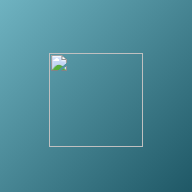
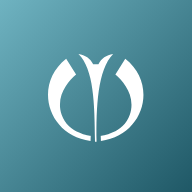
Инструкция «Установить как приложение» (#/install), исправлены значки PWA

Changed region(s): [[0.25, 0.25, 0.75, 0.7812]]

diff --git a/app.js b/app.js
@@ -92,6 +92,7 @@ function viewHome() {
   } else {
     slides.push({ tag: 'МОЙ ПУТЬ', title: 'План восстановления по дням', sub: 'Укажите операцию и дату — подскажу, что делать каждый день', facts: ['Чек-лист на каждый день', 'Самопроверка симптомов'], cta: 'Начать', g: 'teal', art: 'Calendar', href: '#/tracker' });
   }
+  if (!isStandalone()) slides.push({ tag: 'ПРИЛОЖЕНИЕ', title: 'Установите «Авалон» на телефон', sub: 'Значок на экране, открывается как приложение, работает без интернета', facts: ['iPhone и Android', 'Windows и Mac', 'Бесплатно, без магазина'], cta: 'Как установить', g: 'teal', art: 'Phone', href: '#/install' });
   slides.push({ tag: 'ОТЗЫВ', title: 'Оцените клинику «Авалон»', sub: 'Отзыв на Яндексе, 2ГИС или ПроДокторов — за 1 минуту', facts: D.reviews.map(r => `${r.name} ★ ${r.rating}`), cta: 'Оставить отзыв', g: 'sun', art: 'Heart', href: '#/reviews' });
   slides.push({ tag: 'ПАМЯТКА', title: 'После удаления зуба', sub: 'Что можно и нельзя — по дням, с картинками', facts: ['Тампон 20–30 минут', 'Холод — первые сутки', 'Не полоскать в 1-й день'], cta: 'Открыть', g: 'lilac', art: 'Tooth', href: '#/guide/extraction' });
   slides.push({ tag: 'ПАМЯТКА', title: 'После имплантации', sub: 'Как помочь имплантату прижиться', facts: ['Не курить', 'Мягкая пища на другой стороне', 'Антибиотики — по схеме'], cta: 'Открыть', g: 'mint', art: 'Implant', href: '#/guide/implant' });
@@ -457,7 +458,8 @@ function viewSettings() {
         <div style="display:flex;align-items:center;gap:8px;margin:6px 0"><div style="flex:1"><b>Сбросить «Мой путь»</b><div class="small muted">${S.track ? 'Операция: ' + esc(byId(D.operations, S.track.op)?.title) : 'Восстановление не отслеживается'}</div></div><button class="pill ${S.track ? 'coral' : ''}" data-reset>Сбросить</button></div>
         <div style="display:flex;align-items:center;gap:8px;margin:6px 0"><div style="flex:1"><b>Сбросить рекорд викторины</b><div class="small muted">${S.quizBest ? `Сейчас: ${S.quizBest}/10` : 'Рекорда пока нет'}</div></div><button class="pill ${S.quizBest ? 'coral' : ''}" data-resetquiz>Сбросить</button></div></div>
       <div class="group"><h3>📲 Приложение</h3>
-        <p class="small muted">Добавьте сайт на главный экран: в Safari — «Поделиться» → «На экран „Домой“», в Chrome — меню ⋮ → «Добавить на главный экран».</p>
+        <p class="small muted">${isStandalone() ? '✓ «Авалон» установлен как приложение.' : 'Установите сайт как приложение: значок на экране, работа без интернета.'}</p>
+        ${isStandalone() ? '' : `<a class="btn grad-mint" style="margin-top:10px" href="#/install">📲 Как установить — инструкция</a>`}
         ${isAndroid ? `<a class="btn grad-teal" style="margin-top:10px" href="${APK.url}" download>${svg('android')} Скачать приложение для Android ${APK.name}</a>` : `<a href="${APK.url}" class="small" download>Скачать APK для Android ${APK.name}</a>`}
 </div></div>
       <div class="group"><img src="img/${document.documentElement.dataset.theme === 'dark' ? 'logo-white' : 'logo'}.svg" style="width:190px" alt=""><p><b>Помощник пациента · веб-версия</b></p>
@@ -600,6 +602,67 @@ function viewAnesthesia(tab = 0) {
     <a class="btn grad-teal" style="margin-top:10px" href="#/booking/service/${encodeURIComponent('Лечение во сне (седация / наркоз)')}">Записаться на консультацию</a></div><div style="height:40px"></div></main>`;
 }
 
+
+// ————————————————— Установка сайта как приложения —————————————————
+let installPrompt = null;   // событие браузера «можно установить» (Chrome, Edge, Samsung Internet)
+window.addEventListener('beforeinstallprompt', e => { e.preventDefault(); installPrompt = e; if (location.hash.startsWith('#/install')) { window._replace = true; route(); } });
+window.addEventListener('appinstalled', () => { installPrompt = null; toast('Приложение установлено ✓'); });
+const isStandalone = () => matchMedia('(display-mode: standalone)').matches || navigator.standalone === true;
+function detectPlatform() {
+  const ua = navigator.userAgent;
+  if (/iPhone|iPad|iPod/i.test(ua) || (navigator.platform === 'MacIntel' && navigator.maxTouchPoints > 1)) return 1;
+  if (/Android/i.test(ua)) return 0;
+  if (/Mac/i.test(ua)) return 3;
+  return 2;
+}
+const INSTALL = [
+  { name: 'Android', icon: 'android', steps: [
+    ['Откройте сайт в Chrome', 'Адрес: varta2005.github.io. Подойдёт и Samsung Internet или Яндекс Браузер.'],
+    ['Нажмите «Установить»', 'Если вверху этой страницы есть зелёная кнопка «Установить в одно нажатие» — нажмите её. Если нет: меню ⋮ (три точки справа вверху) → «Добавить на главный экран» или «Установить приложение».'],
+    ['Подтвердите', 'Нажмите «Установить» или «Добавить» в окне браузера.'],
+    ['Готово', 'На рабочем столе появится значок «Авалон». Он открывается как обычное приложение, во весь экран и без интернета.'],
+  ], extra: 'Можно установить и полноценное Android-приложение (APK) — кнопка внизу.' },
+  { name: 'iPhone / iPad', icon: 'share', steps: [
+    ['Откройте сайт в Safari', 'Адрес: varta2005.github.io. На iOS 16.4 и новее подойдёт и Chrome — через ту же кнопку «Поделиться».'],
+    ['Нажмите «Поделиться»', 'Квадрат со стрелкой вверх: на iPhone — внизу экрана, на iPad — вверху справа.'],
+    ['«На экран „Домой“»', 'Пролистайте список действий вниз и выберите «На экран „Домой“».'],
+    ['Нажмите «Добавить»', 'Значок «Авалон» появится рядом с другими приложениями и будет открываться во весь экран.'],
+  ] },
+  { name: 'Windows', icon: 'doc', steps: [
+    ['Откройте сайт в Edge или Chrome', 'Адрес: varta2005.github.io.'],
+    ['Установите', 'Если на этой странице есть кнопка «Установить в одно нажатие» — нажмите её. Или: Edge — меню «…» → «Приложения» → «Установить этот сайт как приложение»; Chrome — значок установки (монитор со стрелкой) справа в адресной строке.'],
+    ['Подтвердите «Установить»', 'Приложение откроется в отдельном окне.'],
+    ['Запускайте из «Пуска»', '«Авалон» появится в меню «Пуск»; его можно закрепить на панели задач.'],
+  ] },
+  { name: 'Mac', icon: 'clinic', steps: [
+    ['Откройте сайт в Safari или Chrome', 'Адрес: varta2005.github.io.'],
+    ['Safari: «Файл» → «Добавить в Dock»', 'Работает в macOS Sonoma и новее. Нажмите «Добавить».'],
+    ['Chrome: значок установки', 'Справа в адресной строке (монитор со стрелкой) → «Установить». Или кнопка «Установить в одно нажатие» на этой странице.'],
+    ['Запускайте из Dock или Launchpad', '«Авалон» откроется в отдельном окне, как обычная программа.'],
+  ] },
+];
+function viewInstall(tab) {
+  const t = tab === undefined || tab === '' ? detectPlatform() : Math.max(0, Math.min(3, +tab));
+  const P = INSTALL[t];
+  const done = isStandalone();
+  return header(`${backBtn()}<div class="row"><div style="flex:1"><div class="small" style="opacity:.8">Как обычное приложение</div><h1>Установить на телефон или компьютер</h1>
+      <p>Значок «Авалон» на экране, открывается во весь экран, памятки доступны без интернета. Бесплатно и без магазина приложений.</p></div>
+      <img src="img/icon-192.png" alt="" style="width:96px;height:96px;border-radius:24px;box-shadow:0 10px 30px rgba(0,0,0,.3);animation:breathe 4s ease-in-out infinite"></div>`, 'night') +
+  `<main class="wrap pad" style="max-width:860px;display:grid;gap:12px">
+    ${done ? `<div class="box mint" style="display:flex;gap:10px;align-items:center"><b style="font-size:1.4rem">✓</b><div><b>Уже установлено</b><div class="small">Вы открыли «Авалон» как приложение.</div></div></div>` : ''}
+    ${!done && installPrompt ? `<button class="btn grad-mint" data-install style="font-size:1.05rem">⬇ Установить в одно нажатие</button>` : ''}
+    <div class="tabs" style="--t:${t};grid-template-columns:repeat(4,1fr);margin:0"><span class="ind" style="width:calc((100% - 8px) / 4)"></span>
+      ${INSTALL.map((x, i) => `<button class="${i === t ? 'on' : ''}" data-href="#/install/${i}" data-replace>${x.name}</button>`).join('')}</div>
+    <div class="view" style="display:grid;gap:8px">${P.steps.map(([h, d], i) => `
+      <div class="card flat enter" style="--i:${i};display:flex;gap:12px;padding:14px">
+        <span style="width:32px;height:32px;border-radius:50%;background:var(--teal);color:#fff;display:grid;place-items:center;font-weight:700;flex:none">${i + 1}</span>
+        <div><b>${h}</b><div class="muted" style="font-size:.92rem;margin-top:2px">${d}</div></div></div>`).join('')}
+      ${P.extra ? `<p class="small muted">${P.extra}</p>` : ''}</div>
+    ${t === 0 ? `<a class="btn grad-teal" href="${APK.url}" download>${svg('android')} Скачать Android-приложение ${APK.name}</a>` : ''}
+    <p class="small muted">Ваши отметки в «Моём пути» и настройки хранятся только на вашем устройстве.</p>
+    <div style="height:30px"></div></main>`;
+}
+
 // ————————————————— Навигация —————————————————
 const NAV = [['home', 'Главная', '#/'], ['book', 'Памятки', '#/guides'], ['heart', 'Мой путь', '#/tracker'], ['doc', 'Врачи', '#/doctors'], ['clinic', 'Клиника', '#/clinic'], ['gear', 'Настройки', '#/settings']];
 function renderNav(route) {
@@ -644,6 +707,7 @@ function route() {
     case 'booking': html = viewBooking(a, b); break;
     case 'reviews': html = viewReviews(); break;
     case 'prep': html = viewPrep(a); break;
+    case 'install': html = viewInstall(a); break;
     case 'anesthesia': html = viewAnesthesia(a); break;
     default: html = viewHome();
   }
@@ -663,9 +727,10 @@ function route() {
 
 // ————————————————— События —————————————————
 document.addEventListener('click', e => {
-  const el = e.target.closest('[data-prep],[data-bk],[data-bksend],[data-copybooking],[data-href],[data-nav],[data-back],[data-tip],[data-toggle-stage],[data-start],[data-share],[data-pick],[data-begin],[data-reset],[data-resetquiz],[data-task],[data-set],[data-toggle],[data-ans],[data-next],[data-quiz-restart],[data-flip]');
+  const el = e.target.closest('[data-install],[data-prep],[data-bk],[data-bksend],[data-copybooking],[data-href],[data-nav],[data-back],[data-tip],[data-toggle-stage],[data-start],[data-share],[data-pick],[data-begin],[data-reset],[data-resetquiz],[data-task],[data-set],[data-toggle],[data-ans],[data-next],[data-quiz-restart],[data-flip]');
   if (!el) return;
   const d = el.dataset;
+  if (d.install !== undefined) { if (installPrompt) { installPrompt.prompt(); installPrompt.userChoice.finally(() => { installPrompt = null; window._replace = true; route(); }); } return; }
   if (d.prep) { const [pid, k] = d.prep.split('|'); S.prepChecked = S.prepChecked || {}; const c = S.prepChecked[pid] = S.prepChecked[pid] || {}; c[k] ? delete c[k] : (c[k] = true); store.save(); window._replace = true; route(); return; }
   if (d.bk) { const i = d.bk.indexOf(':'); const k = d.bk.slice(0, i), v = d.bk.slice(i + 1);
     if (k === 'doc') B.doc = B.doc === v ? '' : v; else if (k === 'svc') B.svc = B.svc === v ? '' : v; else B[k] = +v;

diff --git a/sw.js b/sw.js
@@ -1,5 +1,5 @@
 // Офлайн-режим: кэшируем оболочку и всё, что пациент уже открывал
-const CACHE = 'avalon-v3';
+const CACHE = 'avalon-v4';
 const CORE = ['./', 'index.html', 'app.css', 'app.js', 'data.json', 'img/logo-white.svg', 'img/logo.svg', 'img/mark-white.svg'];
 self.addEventListener('install', e => { e.waitUntil(caches.open(CACHE).then(c => c.addAll(CORE)).then(() => self.skipWaiting())); });
 self.addEventListener('activate', e => { e.waitUntil(caches.keys().then(ks => Promise.all(ks.filter(k => k !== CACHE).map(k => caches.delete(k)))).then(() => self.clients.claim())); });
